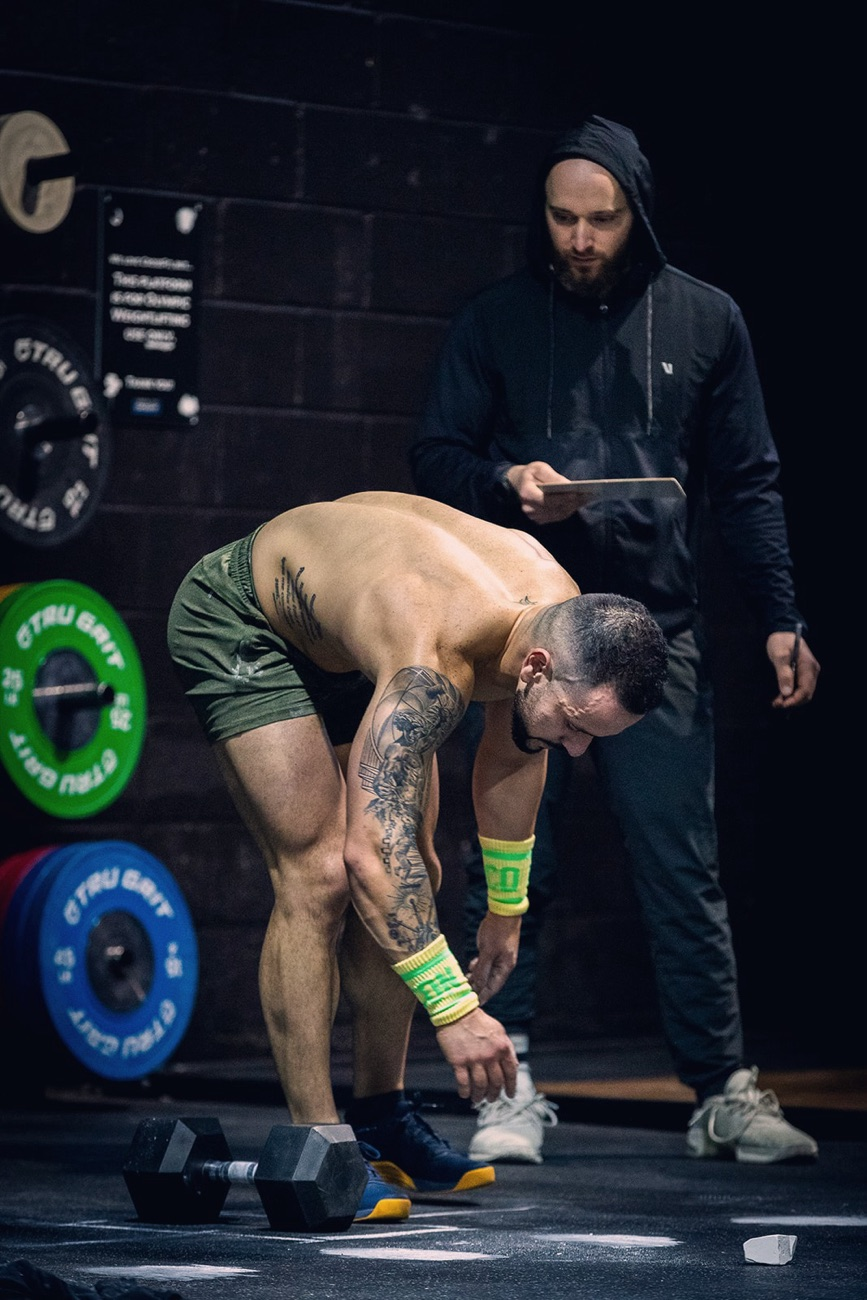
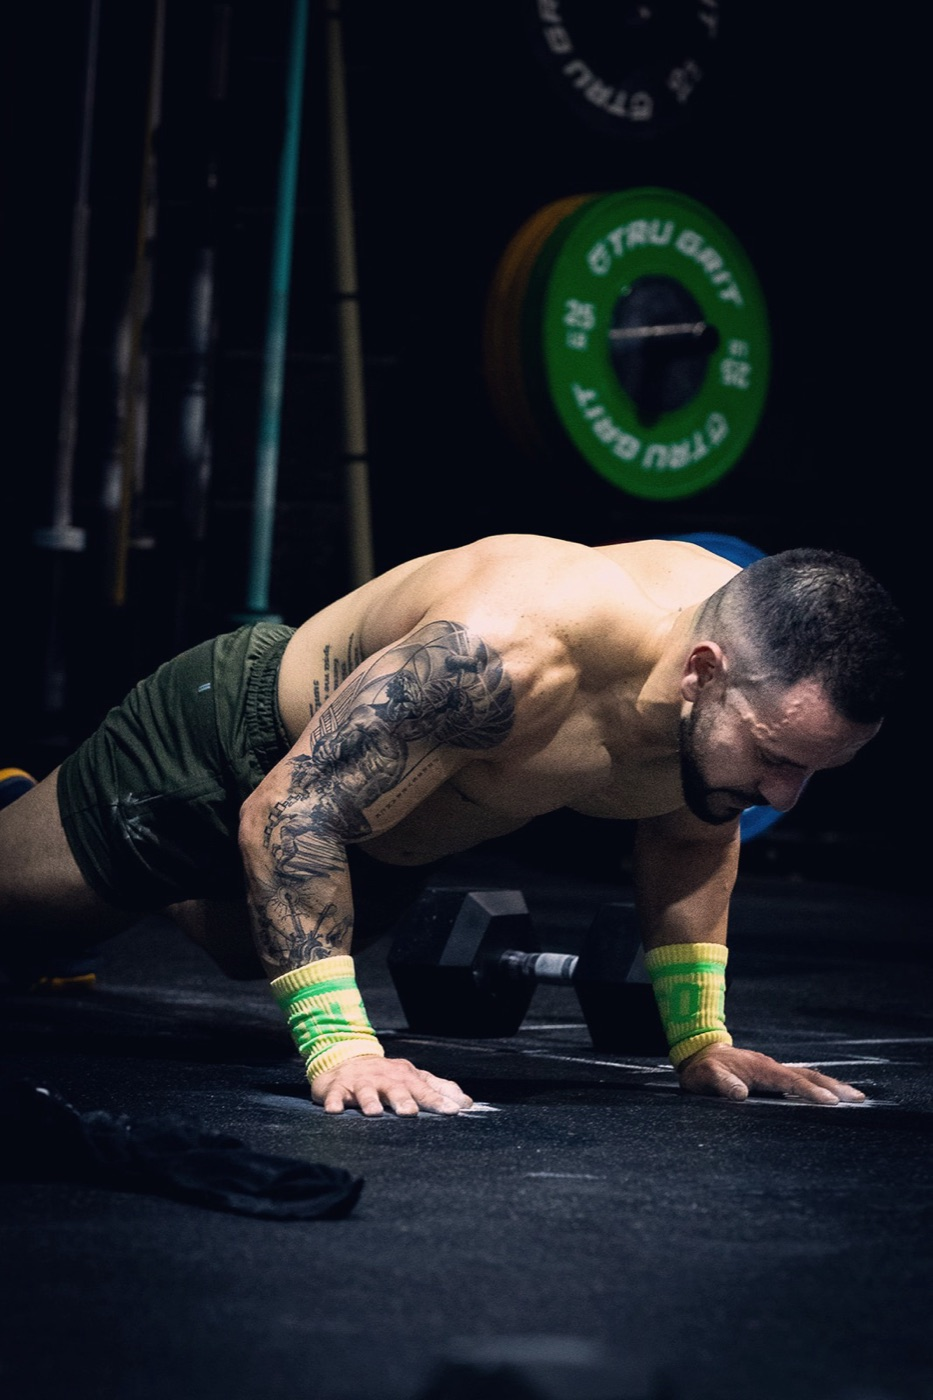
Swap DS Method band image to IMG_2469 (stronger shot)

diff --git a/index.html b/index.html
@@ -317,7 +317,7 @@
 
     <!-- Method visual band -->
     <div class="grid sm:grid-cols-2 gap-4 mt-4">
-      <div class="photo scrim-b rounded-2xl overflow-hidden min-h-[260px]" style="background-image:url('images/review.jpg'); background-position: 50% 35%;">
+      <div class="photo scrim-b rounded-2xl overflow-hidden min-h-[260px]" style="background-image:url('images/review.jpg'); background-position: center 42%;">
         <div class="absolute bottom-0 p-6">
           <p class="font-display font-bold text-chalk text-lg">A real human reads every application</p>
           <p class="text-mist/70 text-sm">No cold automation. No funnel pretending to be a coach.</p>